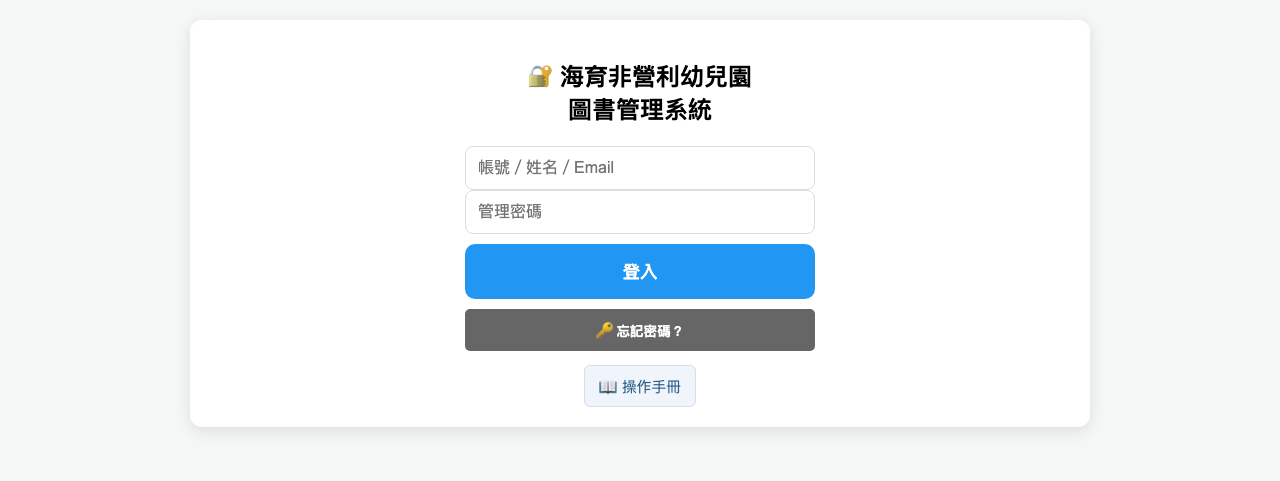
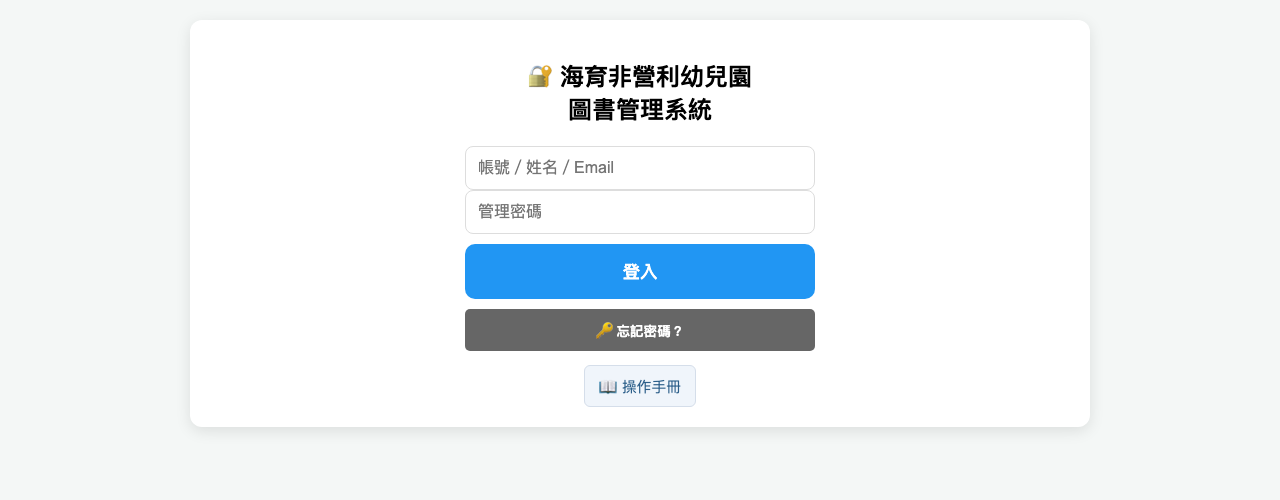
docs: 統一操作手冊截圖為整頁 1280 寬

Changed region(s): [[0.1562, 0.3119, 0.8438, 0.8732], [0.4062, 0.1247, 0.5938, 0.2495]]

diff --git a/docs/操作手冊.md b/docs/操作手冊.md
@@ -285,7 +285,9 @@ admin／root 角色與共用管理員不受勾選影響，一律全權限。
 
 操作：圖書管理頁 →「➕ 新增圖書（自動編號）」→ 填寫書名、選擇來源（必填）→ 系統自動產生條碼／財產編號。財產編號欄位為唯讀，不可手動修改。若同時選擇「主題分類」並輸入書名，索書號也會自動產生（可手動更正）。
 
-![新增圖書（自動編號）](images/18-book-new.png)
+![新增圖書（自動編號）：對話框上半部](images/18-book-new.png)
+
+![新增圖書（自動編號）：對話框下半部](images/18-book-new-2.png)
 
 「主題分類」維護位於「系統設定」頁，可新增／編輯分類；索書號依「分類字首＋流水號」自動產生：
 
@@ -310,7 +312,9 @@ admin／root 角色與共用管理員不受勾選影響，一律全權限。
 | 報廢日期 | 書籍報廢時填寫，民國年格式 | 116/12/31 |
 | 預約狀態 | 有被預約／無被預約（系統即時顯示，唯讀） | 無被預約 |
 
-![編輯圖書對話框](images/12-book-edit.png)
+![編輯圖書對話框：上半部](images/12-book-edit.png)
+
+![編輯圖書對話框：下半部](images/12-book-edit-2.png)
 
 當「書籍狀態」設定為「遺失、修繕中、爭議中」：設定為無法借出。
 

diff --git a/docs/修訂紀錄.md b/docs/修訂紀錄.md
@@ -584,3 +584,8 @@
   - `19-category.png`：主題分類管理區塊。
   - `18-book-new.png`：新增圖書對話框，選擇來源後自動產生財產編號。
 - `17-loan-member.png`：改為實際掃描未建檔條碼後的紅色錯誤提示（無此圖書或成員條碼，請先至「圖書管理」建檔）。
+
+### 操作手冊截圖統一為 1280 寬（2026/11/16）
+- 所有頁面截圖統一為 1280 寬，保留導覽列、灰色背景與白色卡片外框，只裁掉下方多餘空白。
+- 借還書頁（`02`）、指令條碼（`16`）、無此條碼錯誤（`17`）、標籤列印（`15`）、稽核紀錄（`09`）、主題分類（`19`）、登入頁（`01`）皆重新擷取。
+- 「編輯圖書」與「新增圖書」對話框改為保留遮罩背景，並分成上下半部兩張圖（新增 `12-book-edit-2.png`、`18-book-new-2.png`），避免細長比例。
